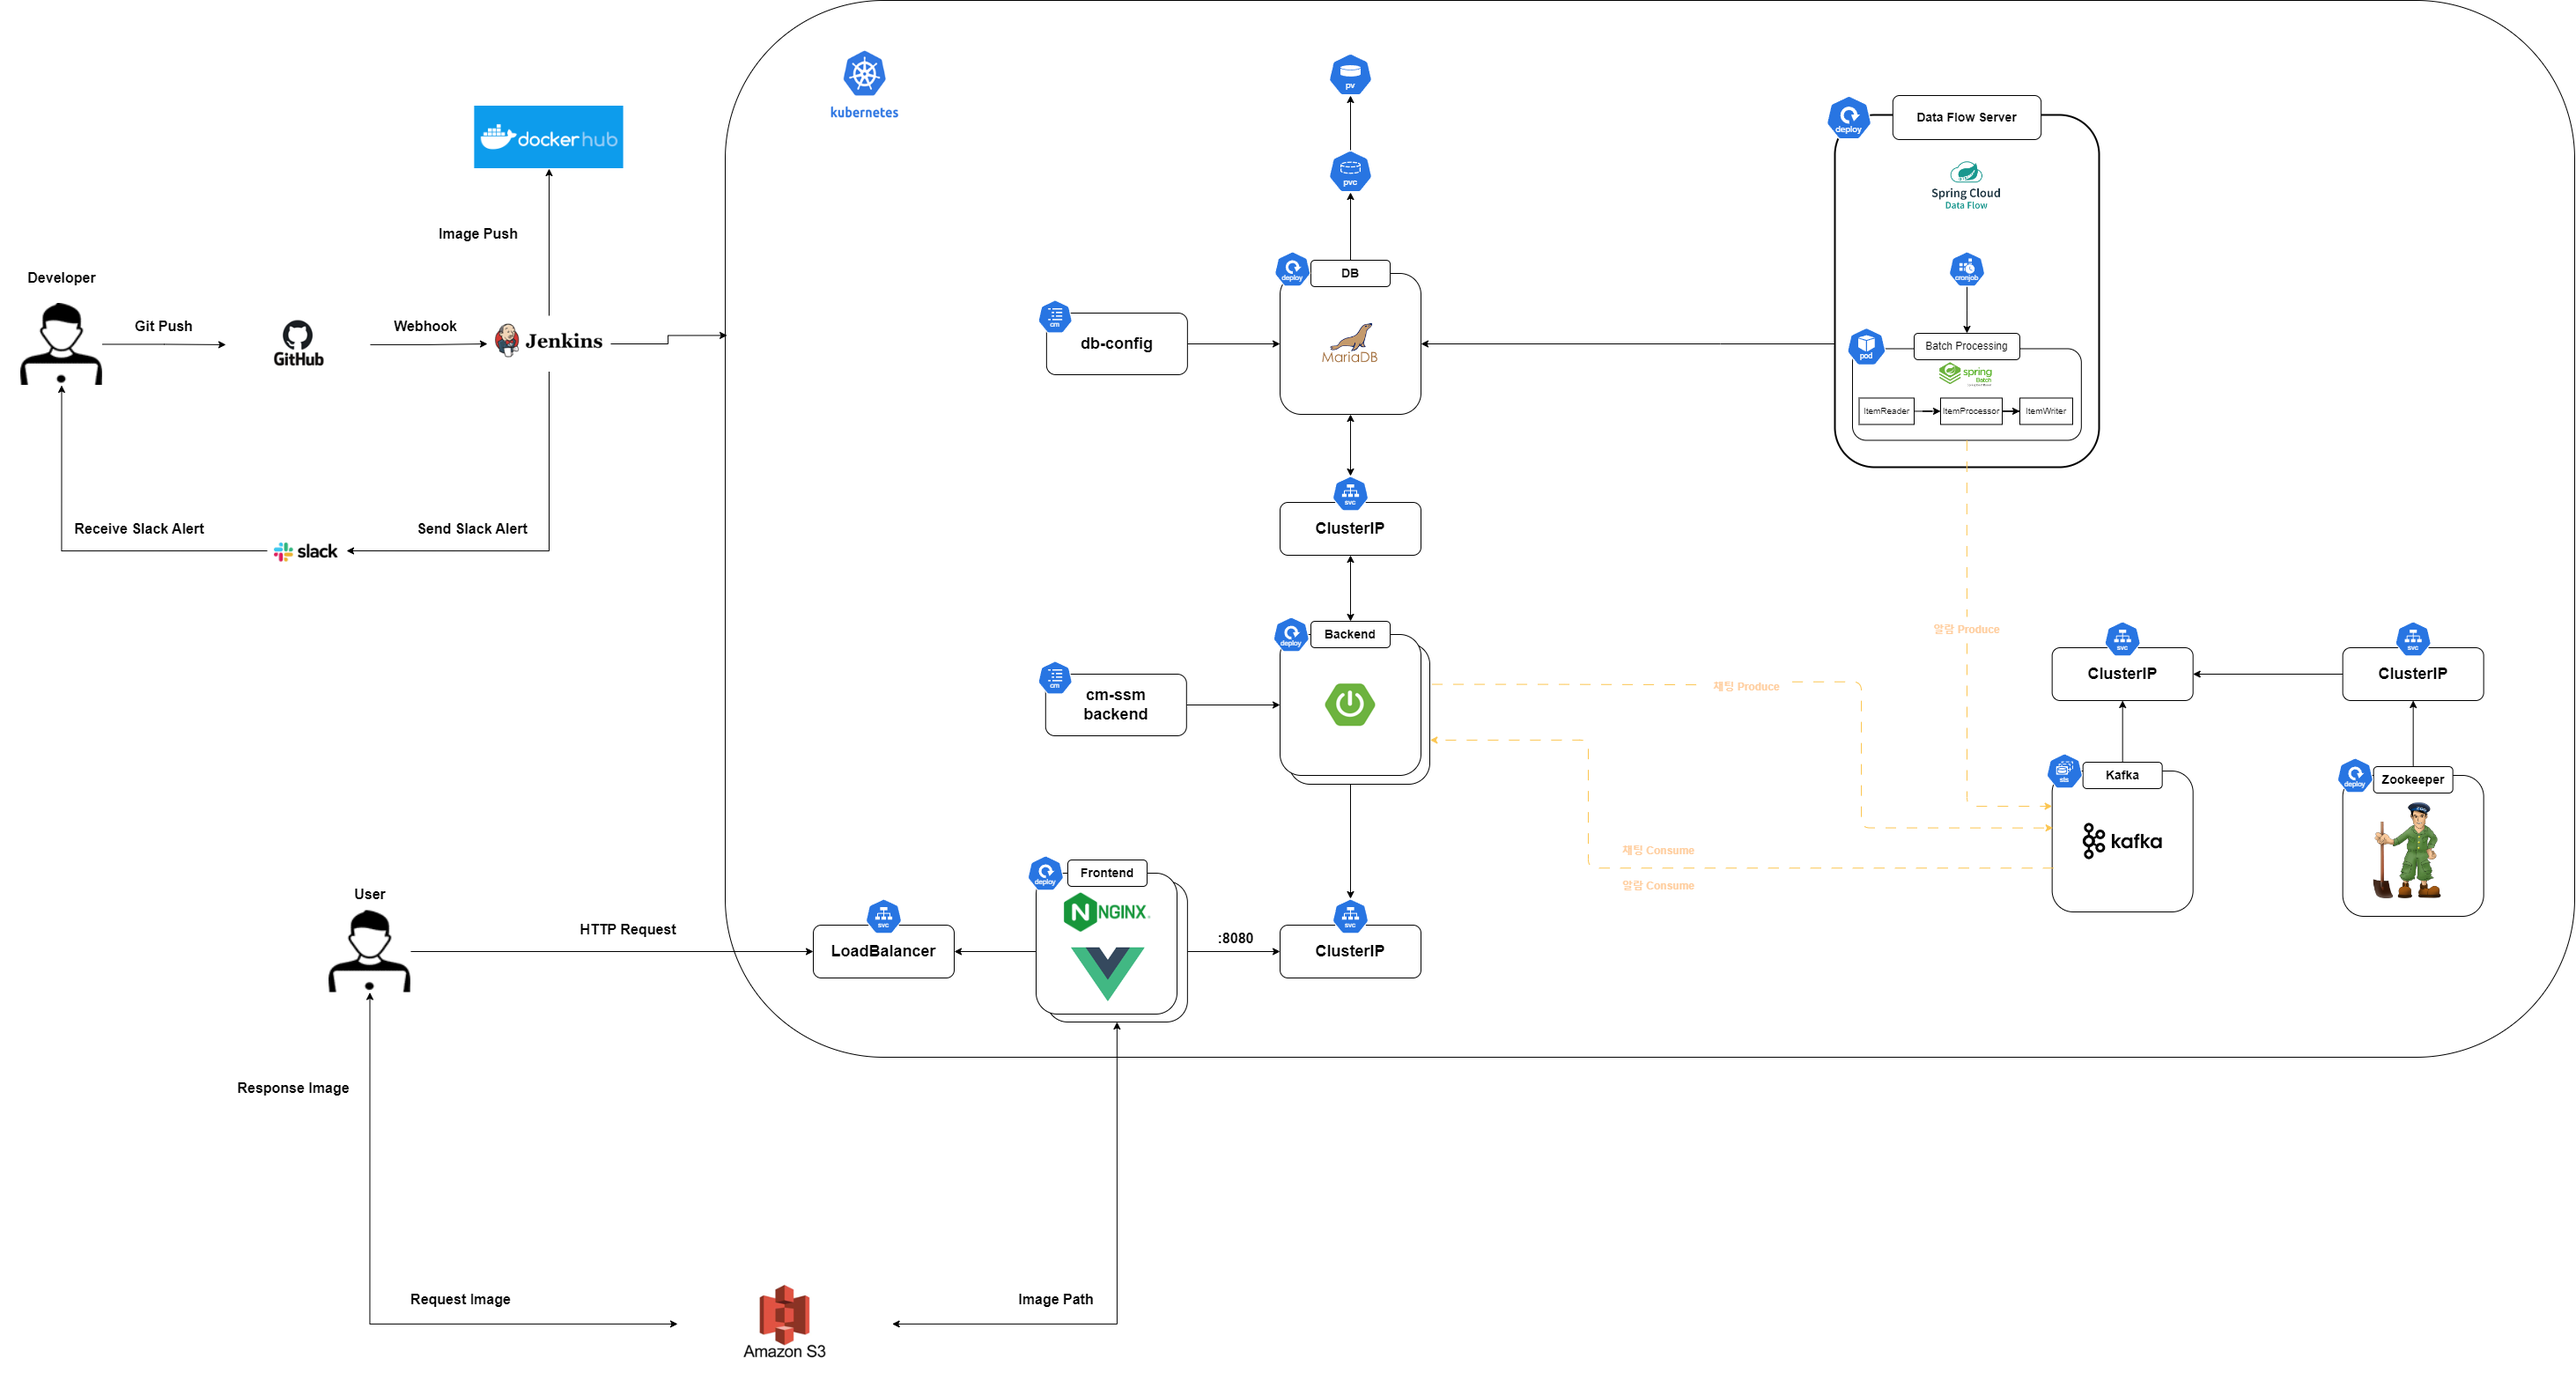
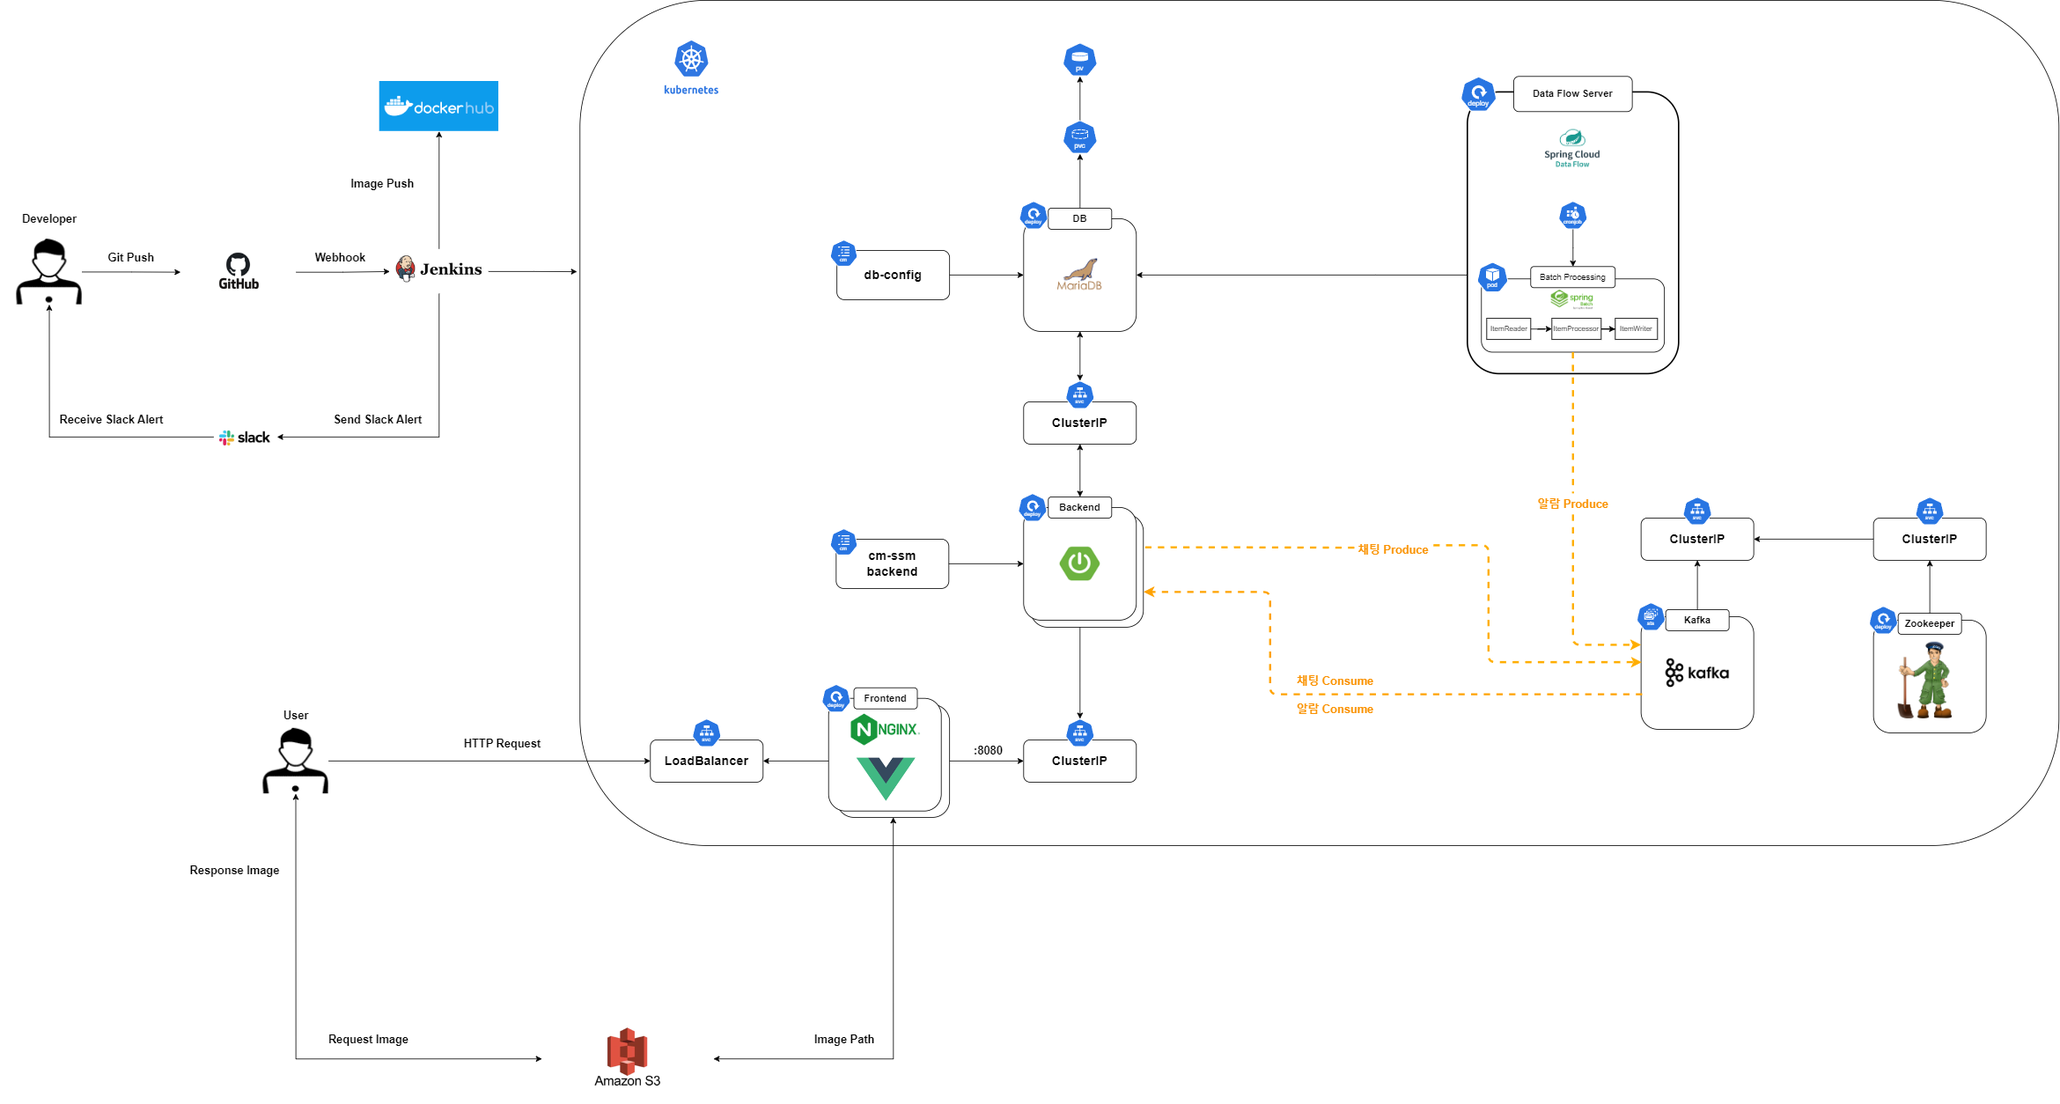
[Fix] 메인 리드미 파일 수정
- 메인 리드미 파일에서 뱃지 수정
- 시스템 아키텍처 사진 변경

diff --git a/README.md b/README.md
@@ -42,12 +42,17 @@
 
 #### :door:&nbsp;Front
 <div align="center">
-<img src="https://img.shields.io/badge/HTML-239120?style=for-the-badge&logo=html5&logoColor=white" style="border-radius: 5px;"> 
-<img src="https://img.shields.io/badge/CSS-239120?&style=for-the-badge&logo=css3&logoColor=white" style="border-radius: 5px;"> 
-<img src="https://img.shields.io/badge/JavaScript-F7DF1E?style=for-the-badge&logo=javascript&logoColor=black" style="border-radius: 5px;"> 
-<img src="https://img.shields.io/badge/Vue.js-35495E?style=for-the-badge&logo=vue.js&logoColor=4FC08D" style="border-radius: 5px;"> 
-
-<img src="https://img.shields.io/badge/Visual_Studio_Code-0078D4?style=for-the-badge&logo=visual%20studio%20code&logoColor=white" style="border-radius: 5px;"> 
+<img src="https://img.shields.io/badge/html5-E34F26?style=for-the-badge&logo=html5&logoColor=white"/>
+<img src="https://img.shields.io/badge/css3-1572B6?style=for-the-badge&logo=css3&logoColor=white"/>
+<img src="https://img.shields.io/badge/JavaScript-F7DF1E?style=for-the-badge&logo=JavaScript&logoColor=white"/>
+<img src="https://img.shields.io/badge/Vue.js-4FC08D?style=for-the-badge&logo=Vue.js&logoColor=white"/>
+<img src="https://img.shields.io/badge/vue_router-4FC08D?style=for-the-badge&logo=Vue.js&logoColor=white"/>
+<img src="https://img.shields.io/badge/VCALENDAR-4FC08D?style=for-the-badge&logo=Vue.js&logoColor=white"/>
+<img src="https://img.shields.io/badge/jwt-000000?style=for-the-badge&logo=Json Web Tokens&logoColor=purple">
+<img src="https://img.shields.io/badge/pinia-gold?style=for-the-badge&logo=Pinia&logoColor=white"/>
+<img src="https://img.shields.io/badge/axios-5A29E4?style=for-the-badge&logo=Axios&logoColor=white"/>
+<img src="https://img.shields.io/badge/nginx-009639?style=for-the-badge&logo=nginx&logoColor=white"/>
+<img src="https://img.shields.io/badge/eslint-4B32C3?style=for-the-badge&logo=eslint&logoColor=white"/> 
 </div>
 
 #### :computer:&nbsp;Back
@@ -88,7 +93,8 @@
 #### 🚀 TEST Tools
 <div align='center'>
 <img src="https://img.shields.io/badge/Jest-323330?style=for-the-badge&logo=Jest&logoColor=white" style="border-radius: 5px;"> 
-<img src="https://img.shields.io/badge/JUnit-123456?style=for-the-badge&logo=Junit&logoColor=white" style="border-radius: 5px;"> 
+<img src="https://img.shields.io/badge/JUnit-123456?style=for-the-badge&logo=Junit&logoColor=white" style="border-radius: 5px;">
+<img src="https://img.shields.io/badge/selenium-43B02A?style=for-the-badge&logo=selenium&logoColor=white" style="border-radius: 5px;">
 </div>
 
 ---
@@ -127,7 +133,7 @@
 <br>
 
 ## :six: &nbsp;시스템 아키텍처
-<details> -->
+<details>
 <summary><b>시스템아키텍쳐 보기</b></summary><br>
 
 <img src="img/system_architecture.png"/>
